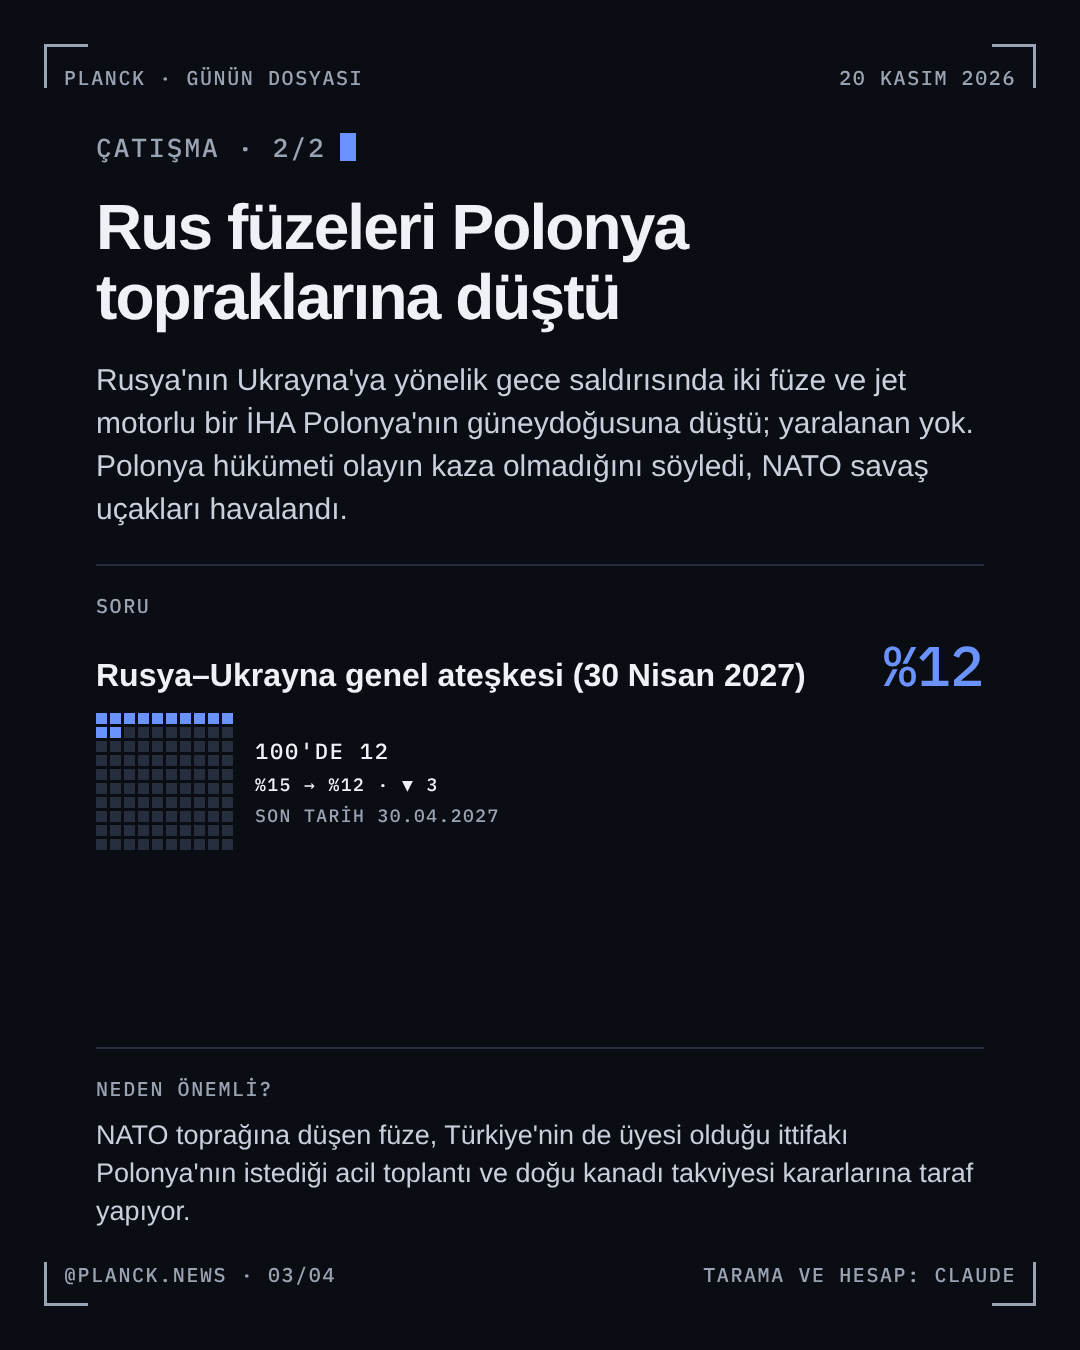
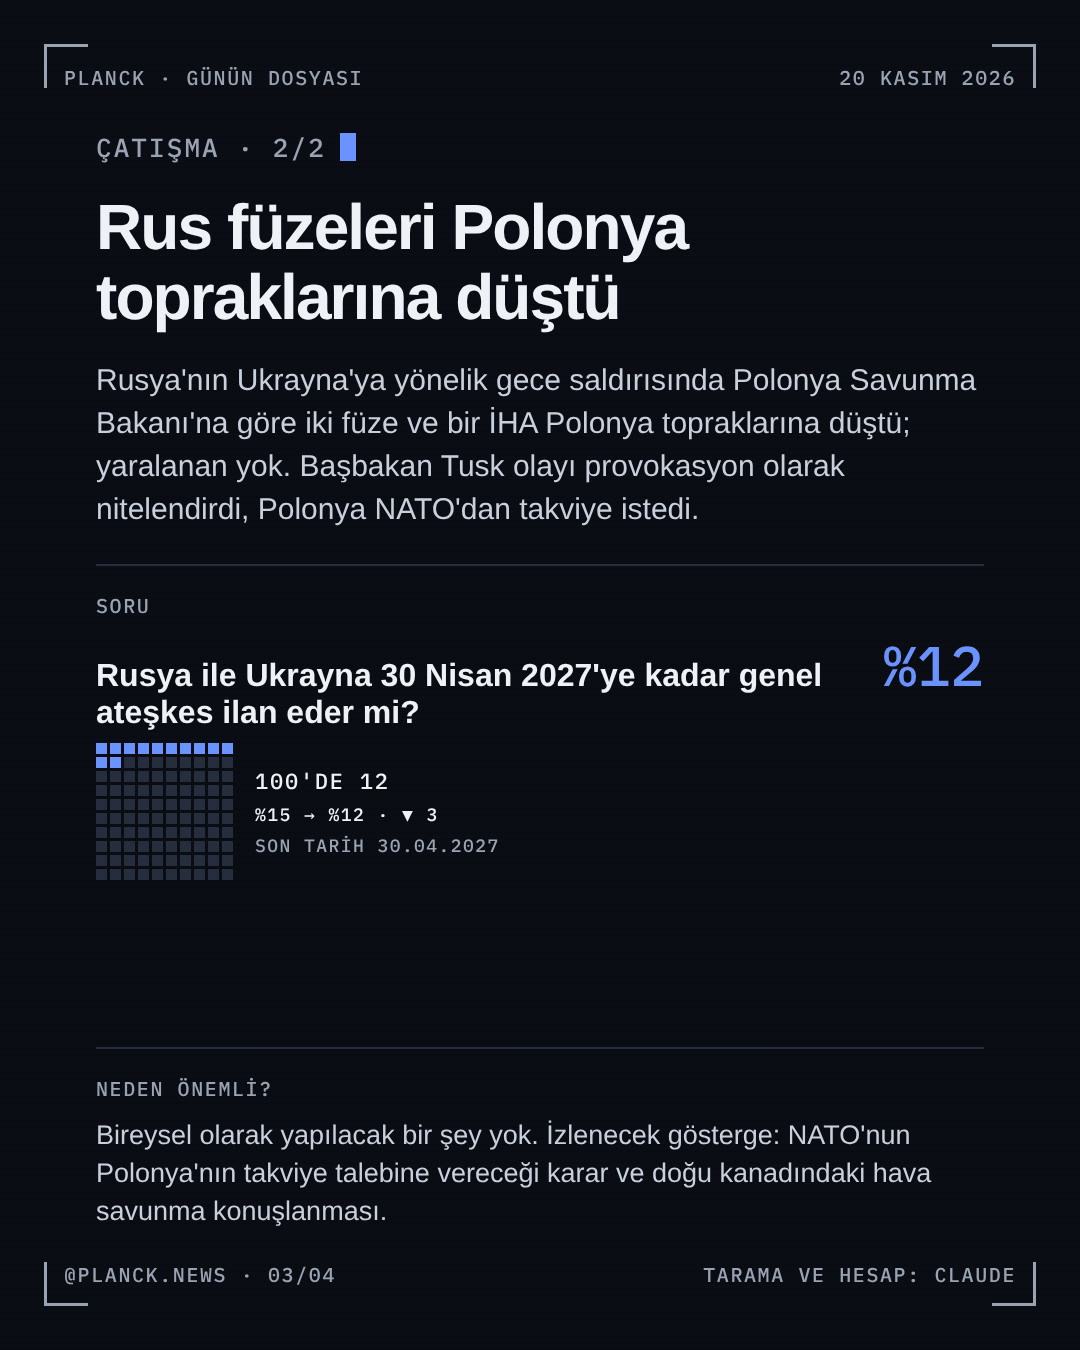
Günün Dosyası 20.11 düzeltildi ve 21:10'a planlandı; nv-1 Neden Yanıldık taslağı (PILOT); izleme motorin kapandı
Claude-Session: https://claude.ai/code/session_01QCGPWJJC6juFjd743twhsh

diff --git a/ekip/nv-1-neden-yanildik.md b/ekip/nv-1-neden-yanildik.md
@@ -1,0 +1,57 @@
+# Neden Yanıldık #1 · `nv-1` (taslak, 20.11.2026)
+
+**Durum:** Taslak. Quant yayını durdurulmuş olduğu için yayın Yusuf onayıyla (PILOT, KARAR §Hafta 1).
+**Kanal önerisi:** @planck.news, tek kare + açıklama (Quant hesabı kapalıyken). Alternatif: Quant açılışında (Ocak 2027) ilk içerik.
+
+## Kayıt
+
+| Alan | Değer |
+|---|---|
+| Soru | Huang, 30 Haziran 2027'ye kadar CEO'luktan ayrılır mı? |
+| Açılış | 9 Kasım 2026 · %7 (taban %5, Claude +2) |
+| Kapanış | 12 Kasım 2026 · **EVET** (Nvidia 8-K: CEO, başkanlık ve yönetim kurulu üyeliğinden derhal ayrıldı) |
+| Kaynak | SEC 8-K, 12.11.2026 |
+| Brier | (1 − 0,07)² = **0,86** (en kötü değer 1; "%50" demek 0,25 alırdı) |
+| Ömür | 3 gün (ufuk 233 gündü) |
+
+## Otopsi: üç hata, biri hepsinden büyük
+
+1. **Bu soru hiç sorulmamalıydı.** Adı geçen bir kişinin görevi hakkında olasılık, Anayasa v2 §9 ile artık kırmızı çizgi (EDITOR madde 9). Soru 9 Kasım'da eski kurallarla açıldı. Bugün editör listesinden REDDET ile dönerdi. Asıl ders sayı değil, sorunun kendisi.
+2. **Yanlış taban sınıfı.** %5, "büyük şirket CEO'sunun herhangi bir 8 aylık dönemde ayrılması" sınıfından geldi. Oysa soru bir soruşturmanın gündemde olduğu haftada açılmıştı. Doğru sınıf "soruşturma altındaki CEO'lar"dı; bu sınıfta ayrılma oranı belirgin yüksektir. Motor yoktu, sınıfı yalnız Claude seçti ve denetleyen olmadı.
+3. **Tek geçiş, aralık yok.** Üç bağımsız hesap ve medyan kuralı (Anayasa v2) o tarihte yoktu. Üç geçiş farklı taban sınıfları önerseydi aralık genişler, "belirsizlik yüksek" etiketi düşerdi.
+
+## Ne değişti (zaten uygulanan)
+
+- Kişi hakkında olasılık yok (§9). Bu tür olay, kişiye değil sonuca soru açar: "Nvidia hissesi X tarihine kadar..." değil (Quant'ta fiyat yönü de yok), "şirketin açıkladığı geçiş planı 90 gün içinde tamamlanır mı?" gibi kurum sorusu.
+- Her soruda Motor ile Claude ayarı ayrı yazılır; ayar ±10'u aşarsa gerekçe zorunlu.
+- Üç bağımsız geçiş, medyan, aralık.
+- Açılışta taban sınıfı ve "yanılırsak neden" (ön otopsi) zorunlu alan.
+
+## Karne etkisi
+
+Kapanan 4 sorunun (2 News, 2 Quant; 1 iptal ayrı) Brier ortalamasında nv-1 tek başına en büyük kalem. Sonuç karnede silinmez, olduğu gibi kalır. 30 kapanıştan önce kalibrasyon yorumu yapılmaz (Anayasa §6).
+
+## Gönderi taslağı (açıklama)
+
+> Neden Yanıldık · #1
+>
+> 9 Kasım'da sorduk: "Nvidia CEO'su 30 Haziran 2027'ye kadar görevden ayrılır mı?" Sayımız %7'ydi · 100'de 7. Üç gün sonra, 12 Kasım'da ayrıldı.
+>
+> Bu bizim en kötü tahminimiz: puanı 0,86 (0 kusursuz, 1 en kötü).
+>
+> Neden yanıldık?
+> 1. Yanlış karşılaştırma grubu: "sıradan bir dönemdeki CEO" ile kıyasladık; oysa şirket o hafta bir soruşturmayla gündemdeydi.
+> 2. Hesabı tek geçişte yaptık, denetleyen ikinci bir hesap yoktu.
+> 3. En önemlisi: bu soruyu sormamalıydık. Kuralımız artık adı geçen bir kişinin görevi, sağlığı ya da hukuki durumu hakkında olasılık vermeyi yasaklıyor.
+>
+> Bu tahmin karnemizden silinmez.
+>
+> Tarama ve hesap: Claude (Anthropic'in yapay zekâ modeli).
+> İnsan: Kuralları yazar, itirazları karara bağlar. Bu gönderi yayın öncesi insan onayından geçti.
+> Kaynak: Nvidia SEC 8-K (12.11.2026) · Soru kaydı: nv-1 · Kimseden fon almıyoruz.
+> Yatırım veya politika tavsiyesi değildir.
+> #planck #nedenyanıldık
+
+## Yusuf'a tek soru
+
+Yayın yeri: (a) şimdi @planck.news'te, (b) Quant açılışında ilk içerik olarak.

diff --git a/ekip/PILOT.md b/ekip/PILOT.md
@@ -9,7 +9,7 @@ Yayın turları (sabah 08:00, akşam 20:40) her çalışmada bu dosyayı okur, o
 - [x] 17.11 · `pb-2026-11-11-motorin-90` düzeltildi %33 → %15 (sicilde DÜZELTME kaydı; ÖTV takvimi PwC bülteni/RG 33339). Okura düzeltme notu 17.11 eklendi (3 gönderi: 11.11 carousel, Reel, Günün Dosyası). Eski madde: hesap hatası (mikro raporu, 17.11): Motor 2026 ÖTV takvimini (13.08.2026 RG: 1 Ara 12 TL, 1 Oca 13,90 TL) saymamış. Önce Resmî Gazete'den doğrula; doğruysa `sicil.py guncelle` ile düzeltme kaydı (Anayasa §8) ve sessiz izleme. `pb-2026-11-10-motorin`'in kurallı Motor'u yok, aynı turda not düş.
 - [x] 18.11 · `pb-2026-11-16-karadeniz-turk-gemi` iptal (hatalı soru, bahis testi). Diğer şiddet soruları için tarama: yeni soru açılışında editör madde 15 uygulanıyor.
 - [x] 20.11 · `risk-catisma` %91 → %89 düzeltme kaydı (log-odds yeniden hesap %88,9; 17.11 LR 1,1 v2'ye göre işlenmemeliydi). Eski madde: yuvarlama düzeltmesi: geçmişi LR tablosuyla ondalıklı yeniden hesapla, `sicil.py guncelle` ile "düzeltme" notuyla işle
-- [ ] `nv-1` "Neden Yanıldık" taslağı (Quant durduğu için yayın Yusuf onayıyla)
+- [x] `nv-1` "Neden Yanıldık" taslağı (20.11: `ekip/nv-1-neden-yanildik.md`, yayın yeri Yusuf'ta) (Quant durduğu için yayın Yusuf onayıyla)
 - [x] 18.11 · 14 kısa vadeli soru açıldı (≤90 gün oranı %49→%56): 6'sı 18:50'de, 8'i 19:10'da (motorin 100 TL 1 Ara, yıl sonu TÜFE %30, emekli zammı %10,5, Hürmüz açılış, kredi kartı azami faiz, BOTAŞ Ocak, ABD Kasım TÜFE, Brent 100$ dokunma). İlk 6: (Kasım TÜFE %30, TCMB Aralık %35, Brent yıl sonu 90$, Kerkük–Ceyhan 300 bin v/g, asgari ücret %25, ABD–İran ateşkes); 9 soru daha gerekli. Hedef: 15 yeni soru: hepsi ≤90 gün, en az 6'sı ≤30 gün, açılışta %15–85. Omurga: TÜİK Kasım enflasyonu (3 Ara), TCMB faiz kararı, akaryakıt zammı, ECB/Fed kararı, resmi takvimli olaylar
 - [ ] Taban ölçümü Story'leri (eski biçimle): "%12 sence ne demek?" ve "Bir risk haberinden sonra ne yapacağını biliyor musun?" (anket çıkartması MBS'de yoksa Yusuf'a telefondan ekleme notu)
 - [x] `data/zayif-sinyal.json` (tarama görevi açtı)
